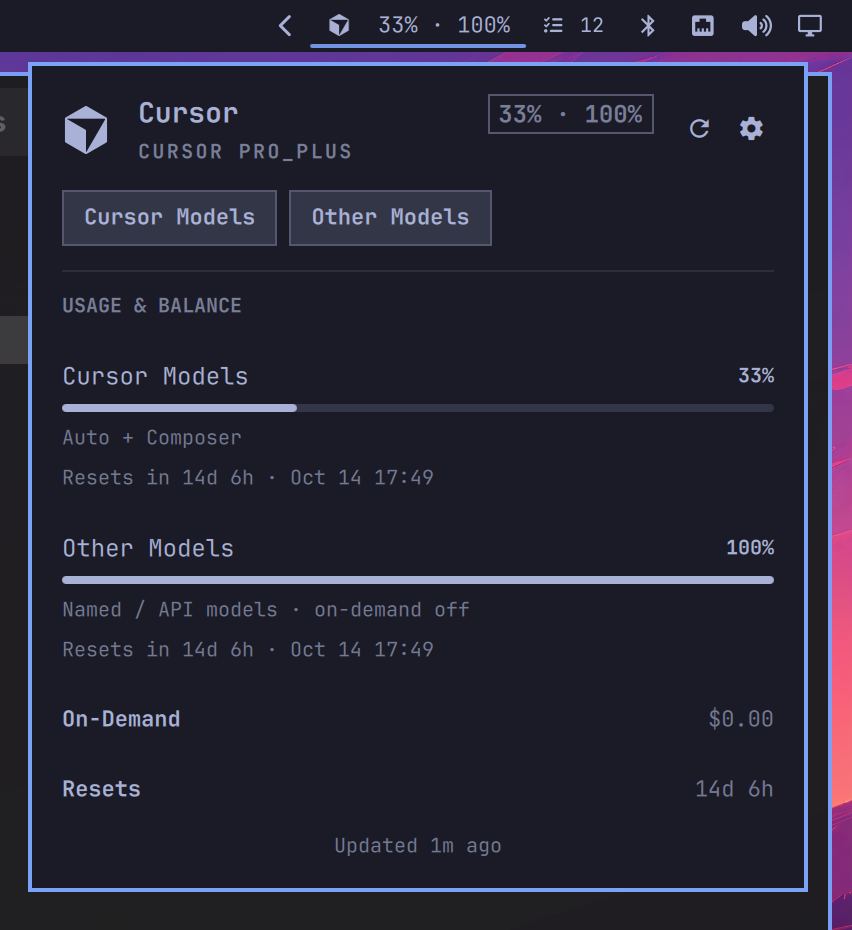
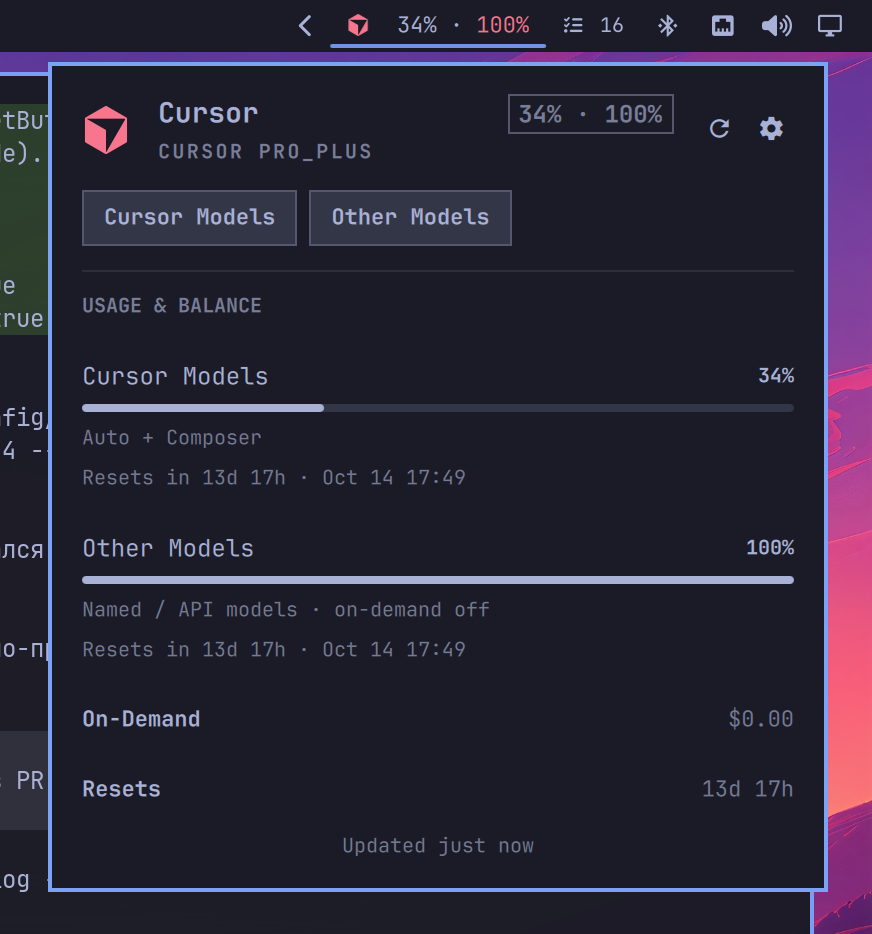
feat(omarchy): highlight critical pools in classic-mode tooltip
When colour-coding is off, the hover tip paints only critical rows red
so a lit tray mark still points at the depleted Cursor pool. Refresh
screenshots for the updated off/on chrome.

diff --git a/omarchy/BarWidget.qml b/omarchy/BarWidget.qml
@@ -141,8 +141,8 @@ BarWidget {
   }
 
   readonly property string tipHtml: {
-    if (!root.colorCodeUsage) return ""
     var rows = root.panelItem ? (root.panelItem.ragTooltipRows || []) : []
+    var colorOn = root.colorCodeUsage
     var _g = root.panelItem ? root.panelItem.hexGreen : ""
     var _y = root.panelItem ? root.panelItem.hexYellow : ""
     var _o = root.panelItem ? root.panelItem.hexOrange : ""
@@ -150,18 +150,28 @@ BarWidget {
     var _ = [_g, _y, _o, _r]
     if (!rows || rows.length === 0) return ""
     var lines = []
+    var anyColor = false
     for (var i = 0; i < rows.length; i++) {
       var row = rows[i] || {}
       var body = root.escapeHtml(row.text || "")
       if (body === "") continue
       var hex = ""
-      if (row.severity && root.panelItem && typeof root.panelItem.severityHexOf === "function")
-        hex = String(root.panelItem.severityHexOf(row.severity) || "")
-      if (hex !== "")
+      var sev = String(row.severity || "")
+      if (colorOn && sev && root.panelItem && typeof root.panelItem.severityHexOf === "function")
+        hex = String(root.panelItem.severityHexOf(sev) || "")
+      else if (!colorOn && sev === "critical")
+        // Classic mode: only the depleted pool is red, so the tip explains
+        // why the tray mark is lit without turning on full RAG.
+        hex = String(_r || "")
+      if (hex !== "") {
+        anyColor = true
         lines.push("<span style=\"color:" + hex + "\">" + body + "</span>")
-      else
+      } else {
         lines.push(body)
+      }
     }
+    if (lines.length === 0) return ""
+    if (!colorOn && !anyColor) return ""
     return lines.join("<br/>")
   }
 
